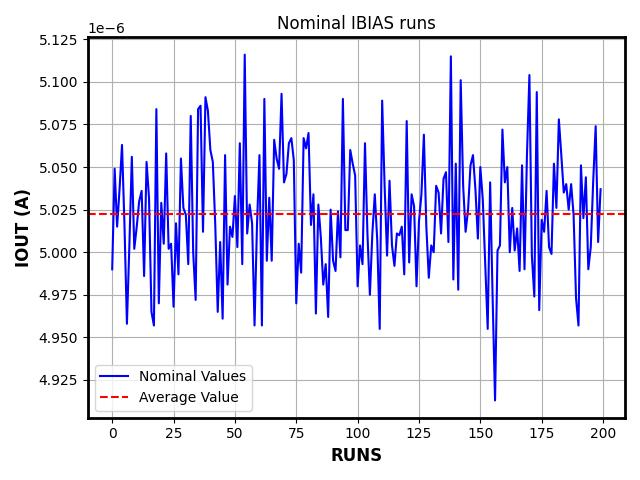
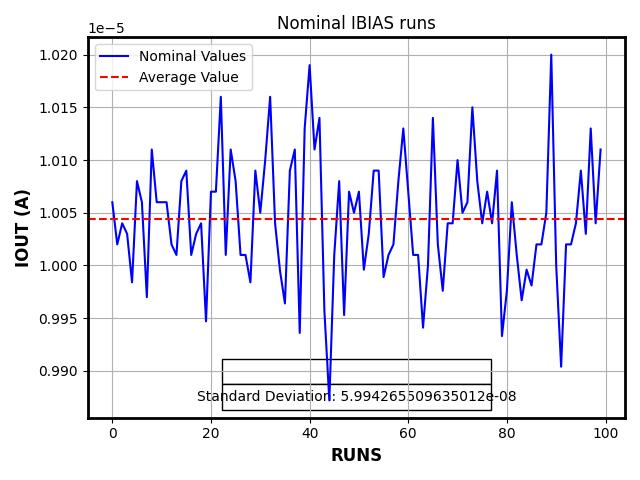
more changes

diff --git a/single_ended_NMOS_OP_AMP/bias_nmos.py b/single_ended_NMOS_OP_AMP/bias_nmos.py
@@ -7,10 +7,12 @@ import time
 # Assuming this code is in a script file, get the directory of the script
 command1 = "scp -r vluz@193.136.221.60:/home/vluz/bias_current_NMOS.csv /home/vasco/Desktop/circuit_design_plot_scripts/single_ended_NMOS_OP_AMP"
 command2 = "scp -r vluz@193.136.221.60:/home/vluz/bias_output_impedance_NMOS.csv /home/vasco/Desktop/circuit_design_plot_scripts/single_ended_NMOS_OP_AMP"
+command3 = "scp -r vluz@193.136.221.60:/home/vluz/bias_current_ac_NMOS.csv /home/vasco/Desktop/circuit_design_plot_scripts/single_ended_NMOS_OP_AMP"
 
 #inputs
-names = ["best corner","worst corner","nominal"] #the corners simulations
-current_val = 4.9 #desired current value in uA
+names = ["Nominal","Worst corner","Best corner"] #the corners simulations
+current_val = 9.8 #desired current value in uA
+Maximum_working_freq = 1000000
 
 
 
@@ -26,20 +28,14 @@ dataframe = dataframe.apply(pd.to_numeric, errors='coerce')
 dataframe.dropna(inplace=True)
 # Extract the first column as x and the rest of the columns as y
 x = dataframe.iloc[:, 0]
-y = dataframe.iloc[:, 1:]
+y = dataframe.iloc[:, [1, 3, 5]]
+print(y)
 interception = {}
 for col in y.columns:
     for idx, value in enumerate(y[col]):
-        if value <= current_val:
-            interception[col] = x[idx]
+        if value >= current_val:
+            interception[col] = round(x[idx],2)
             break  # Exit the loop once the interception point is found
-
-
-
-
-
-# Define the corners simulations
-names = ["Best corner", "Worst corner", "Nominal"]
 
 # Generate a DataFrame from the interception dictionary
 interception_df = pd.DataFrame(interception.items(), columns=['Corner', 'Minimum VOUT'])
@@ -144,4 +140,75 @@ for spine in plt.gca().spines.values():
     spine.set_linewidth(2)
 
 plt.savefig(os.path.join(script_dir, 'output_impedance_vs_VOUT.jpg'), format='jpg')
+plt.show()
+
+
+
+
+
+
+
+
+
+
+subprocess.run(command3, shell=True)
+file = os.path.join(script_dir, "bias_current_ac_NMOS.csv")
+os.remove(file)
+dataframe = pd.read_csv(file, skiprows=1)
+dataframe = dataframe.apply(pd.to_numeric, errors='coerce')
+dataframe.dropna(inplace=True)
+# Extract the first column as x and the rest of the columns as y
+x = dataframe.iloc[:, 0]
+y = dataframe.iloc[:, [1, 4, 7]]
+interception = {}
+
+
+
+for idx, value in enumerate(x):
+    if value >= Maximum_working_freq:
+        break
+
+
+
+for col in y.columns:
+    interception[col] = y[col][idx]
+
+
+# Generate a DataFrame from the interception dictionary
+interception_df = pd.DataFrame(interception.items(), columns=['Corner', 'Maximum IOUT variation'])
+
+# Reorder the DataFrame based on the specified order of names
+interception_df['Corner'] = pd.Categorical(interception_df['Corner'], categories=names, ordered=True)
+interception_df = interception_df.sort_values('Corner')
+
+# Replace the corner values with corresponding names
+interception_df['Corner'] = names
+
+
+plt.figure(figsize=(16, 12))
+table = plt.table(cellText=interception_df.values,
+                  colLabels=interception_df.columns,
+                  loc='center')
+
+# Adjust cell alignment to center
+for (i, j), cell in table.get_celld().items():
+    if (i == 0):
+        cell.set_text_props(fontweight='bold', horizontalalignment='center', verticalalignment='center')  # Bold font and center alignment for column labels
+        cell.set_fontsize(14)  # Adjust font size for column labels
+        cell.set_height(0.1)  # Adjust height for column labels
+        cell.set_facecolor('#f7f7f7')  # Light gray background for column labels
+        cell.set_edgecolor('black')  # Black edge for column labels
+        cell.set_linewidth(1.5)  # Line width for column labels
+    else:
+        cell.set_fontsize(12)  # Adjust font size for data cells
+        cell.set_height(0.1)  # Adjust height for data cells
+        cell.set_edgecolor('black')  # Black edge for data cells
+        cell.set_linewidth(1.5)  # Line width for data cells
+    if (i > 0 and j > 0):
+        cell.set_text_props(horizontalalignment='center', verticalalignment='center')  # Center alignment for data cells
+
+# Hide axes
+plt.axis('off')
+# Save the plot as a JPG image
+plt.savefig(os.path.join(script_dir,"ac_bias_table.jpg"), bbox_inches='tight', pad_inches=0.05, format='jpg')
 plt.show()

diff --git a/single_ended_NMOS_OP_AMP/bias_nmos_mc.py b/single_ended_NMOS_OP_AMP/bias_nmos_mc.py
@@ -15,28 +15,40 @@ file = os.path.join(script_dir, "bias_current_NMOS_mc.csv")
 dataframe = pd.read_csv(file)
 os.remove(file)
 
+# Sample data
 nominal_values = dataframe.loc[3::4, "Nominal"].values
 std_deviation = np.std(nominal_values)
 average_value = np.mean(nominal_values)
+
+print(std_deviation)
 # Plot a graph with markers and improved line style
 plt.plot(nominal_values, linestyle='-', color='b', label="Nominal Values")
 plt.axhline(average_value, color='r', linestyle='--', label="Average Value")
+
 plt.xlabel("RUNS", fontsize=12, weight='bold')  # x-axis label with units
 plt.ylabel("IOUT (A)", fontsize=12, weight='bold')  # y-axis label with units
-
 plt.title('Nominal IBIAS runs')
 plt.legend()
+
+# Add legend with standard deviation
+legend_table = plt.table(cellText=[[f"Standard Deviation: {std_deviation}"]],
+                         loc='lower center',
+                         cellLoc='center',
+                         colWidths=[0.5],
+                         colLabels=[''])
+legend_table.auto_set_font_size(False)
+legend_table.set_fontsize(10)
+legend_table.scale(1, 1.5)
+
 plt.grid(True)  # Add grid lines for better readability
 plt.tight_layout()  # Adjust layout for better spacing
 for spine in plt.gca().spines.values():
     spine.set_linewidth(2)
 
+# Save and display the plot
+script_dir = os.path.dirname(__file__)
 plt.savefig(os.path.join(script_dir, 'Nominal_IBIAS_runs.jpg'), format='jpg')
 plt.show()
-
-print("Standard Deviation:", std_deviation)
-print("Average Value:", average_value)
-
 
 
 
